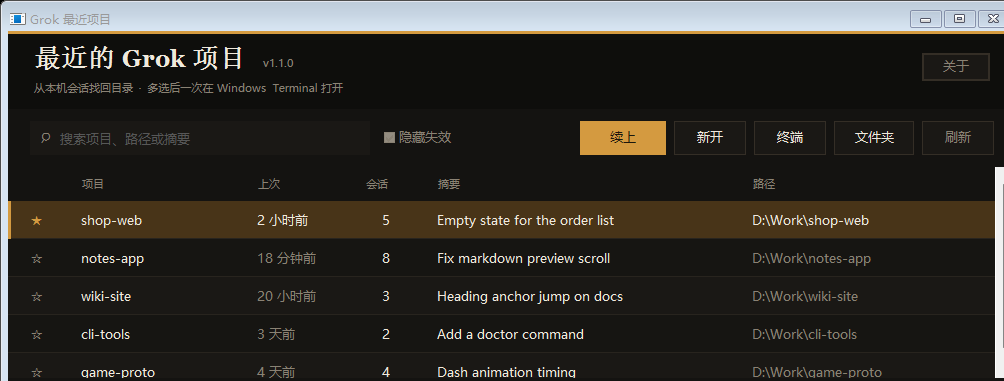
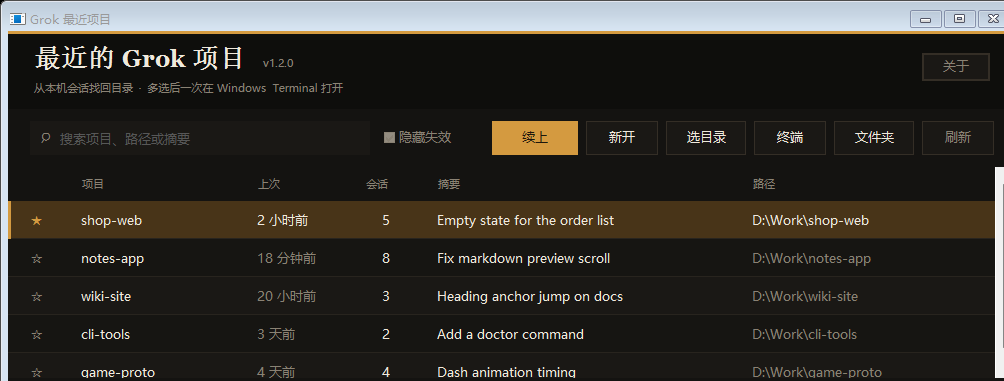
Add a folder picker that starts a new Grok session.
Browse any directory and launch Grok there. Also make 新开 actually run grok in Windows Terminal instead of only opening a shell at that path.

Changed region(s): [[0.4631, 0.3176, 0.741, 0.4042]]

diff --git a/README.md b/README.md
@@ -16,8 +16,10 @@ Windows 小工具：从本机 Grok 会话记录里找回用过的项目目录，
 
 - 列出最近用过 Grok 的目录（按上次活动时间）
 - 多选后一次打开多个标签
-- **续上** = `grok --cwd <dir> -c`（继续该目录最近一次会话）
-- **新开** / **终端** / **资源管理器**
+- **续上** = 在列表选中的目录继续上次会话
+- **新开** = 在列表选中的目录新开 Grok（不是只打开文件夹）
+- **选目录** = 浏览任意文件夹后新开 Grok
+- **终端** / **文件夹**（资源管理器）
 - 搜索、置顶、右键菜单
 - 无联网；偏好存在 `%APPDATA%\GrokRecentLauncher\`
 
@@ -72,8 +74,10 @@ The screenshot above uses fictional sample rows (`D:\Work\shop-web`, etc.), not 
 
 - Recent Grok working directories, newest first
 - Multi-select → open several tabs at once
-- **Continue** runs `grok --cwd <dir> -c`
-- New session / terminal-only / Explorer
+- **Continue** resumes the last session in the selected folder
+- **New** starts a fresh Grok session there (not just Explorer)
+- **Browse** picks any folder and starts Grok there
+- Terminal-only / Explorer
 - Search, pins, context menu
 - Offline. Pins live in `%APPDATA%\GrokRecentLauncher\`
 
